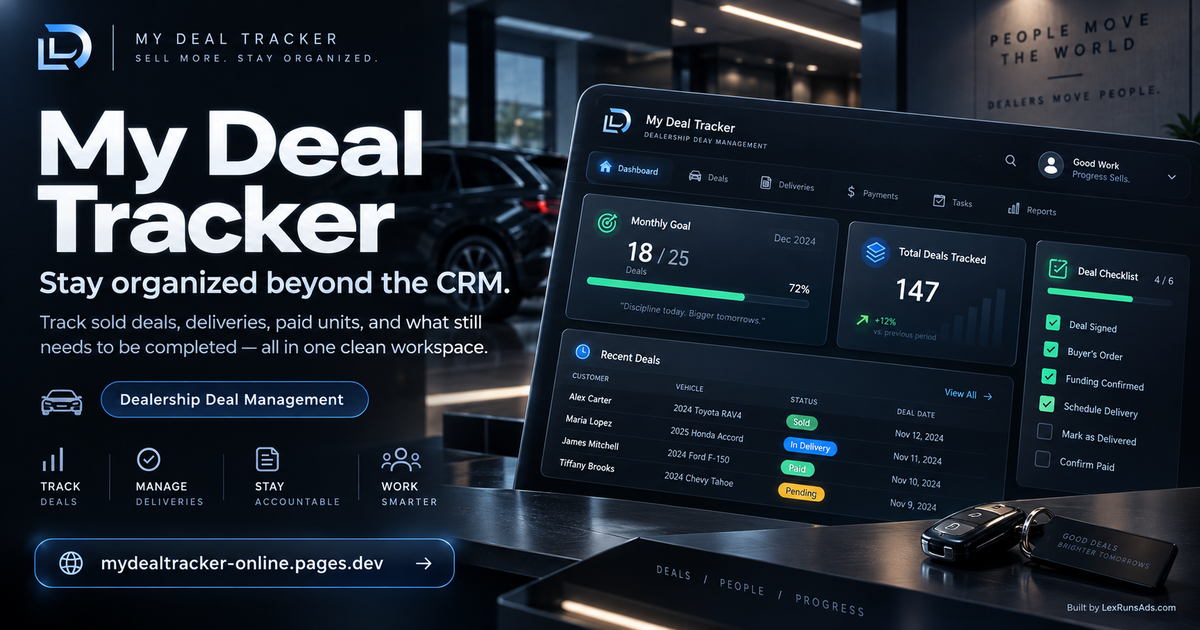
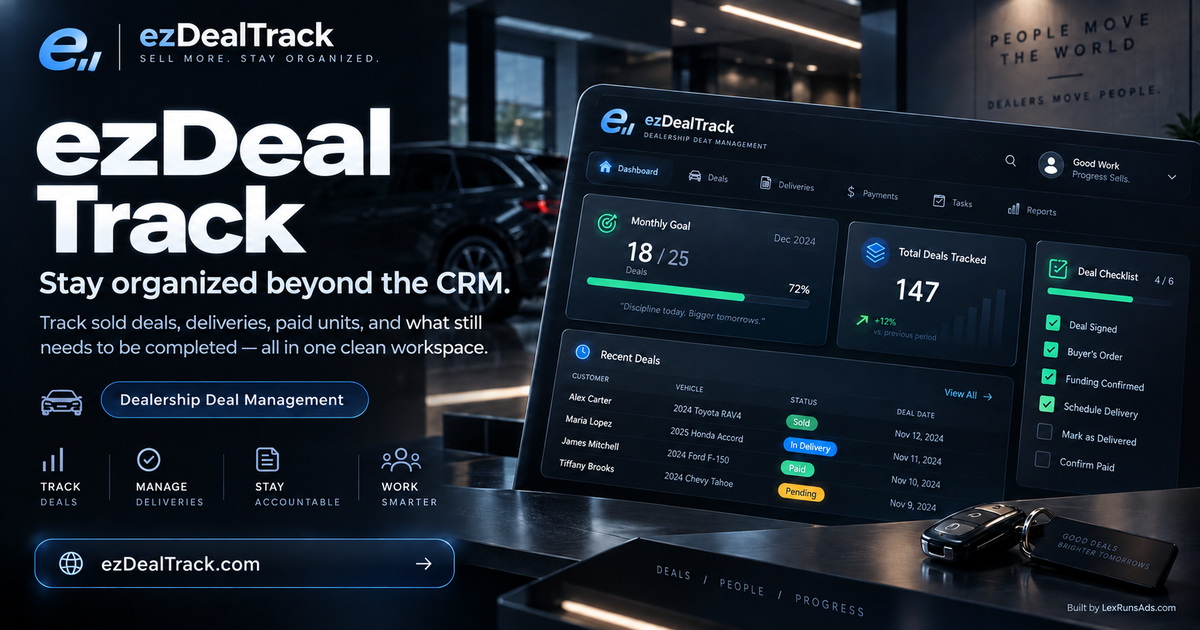
Add files via upload

diff --git a/index.html b/index.html
@@ -3,24 +3,24 @@
 <head>
   <meta charset="UTF-8" />
   <meta name="viewport" content="width=device-width, initial-scale=1.0" />
-  <title>My Deal Tracker | Dealership Sales Workspace</title>
+  <title>ezDealTrack | Dealership Sales Workspace</title>
   <meta name="description" content="Stay organized beyond the CRM. Track sold deals, deliveries, paid units, and what still needs to be completed — all in one clean workspace." />
 
-  <meta property="og:title" content="My Deal Tracker | Dealership Sales Workspace" />
+  <meta property="og:title" content="ezDealTrack | Dealership Sales Workspace" />
   <meta property="og:description" content="Stay organized beyond the CRM. Track sold deals, deliveries, paid units, and what still needs to be completed — all in one clean workspace." />
   <meta property="og:type" content="website" />
-  <meta property="og:url" content="https://mydealtracker-online.pages.dev/" />
-  <meta property="og:image" content="https://mydealtracker-online.pages.dev/og-share-image.png" />
-  <meta property="og:image:secure_url" content="https://mydealtracker-online.pages.dev/og-share-image.png" />
+  <meta property="og:url" content="https://ezdealtrack.com/" />
+  <meta property="og:image" content="https://ezdealtrack.com/og-share-image.png" />
+  <meta property="og:image:secure_url" content="https://ezdealtrack.com/og-share-image.png" />
   <meta property="og:image:type" content="image/png" />
   <meta property="og:image:width" content="1200" />
   <meta property="og:image:height" content="630" />
-  <meta property="og:image:alt" content="My Deal Tracker dealership sales workspace preview" />
+  <meta property="og:image:alt" content="ezDealTrack dealership sales workspace preview" />
 
   <meta name="twitter:card" content="summary_large_image" />
-  <meta name="twitter:title" content="My Deal Tracker | Dealership Sales Workspace" />
+  <meta name="twitter:title" content="ezDealTrack | Dealership Sales Workspace" />
   <meta name="twitter:description" content="Stay organized beyond the CRM. Track sold deals, deliveries, paid units, and what still needs to be completed — all in one clean workspace." />
-  <meta name="twitter:image" content="https://mydealtracker-online.pages.dev/og-share-image.png" />
+  <meta name="twitter:image" content="https://ezdealtrack.com/og-share-image.png" />
 
   <style>
     :root {
@@ -2182,7 +2182,7 @@
         <div class="brand">
           <div>
             <div class="brand-eyebrow">Built for modern sales professionals</div>
-            <h1>My Deal Tracker</h1>
+            <h1>ezDealTrack</h1>
             <span>The follow-up workspace for everything your CRM does not keep simple.</span>
           </div>
         </div>
@@ -2279,7 +2279,7 @@
           <div class="section-kicker">Why Salespeople Use It</div>
           <h2>Because sold does not always mean finished.</h2>
           <p>
-            Your CRM holds the customer record. My Deal Tracker keeps your personal deal workflow clean,
+            Your CRM holds the customer record. ezDealTrack keeps your personal deal workflow clean,
             consistent, and easy to review at a glance.
           </p>
         </div>
@@ -2927,7 +2927,7 @@
     if (exportBtn) {
       exportBtn.addEventListener("click", function() {
         const backup = {
-          app: "My Deal Tracker Online",
+          app: "ezDealTrack Online",
           version: 1,
           exportedAt: new Date().toISOString(),
           data: { goal: state.goal, deals: state.deals }

diff --git a/README.md b/README.md
@@ -226,3 +226,20 @@ Frontend-only update:
 - No database changes.
 - No backend changes.
 - No admin panel.
+
+
+## ezDealTrack rebrand update
+
+Included:
+- Replaces the old social / Open Graph share image with the new ezDealTrack version.
+- Keeps the share-image filename as `og-share-image.png` for easy GitHub replacement.
+- Updates visible site branding from `My Deal Tracker` to `ezDealTrack`.
+- Updates page title and social meta tags to use `ezDealTrack`.
+- Updates Open Graph/Twitter image URL to `https://ezdealtrack.com/og-share-image.png`.
+- Keeps the current dark theme and all existing functionality.
+
+Safe update:
+- No database changes
+- No backend changes
+- No admin changes
+- Existing users and deals stay untouched
